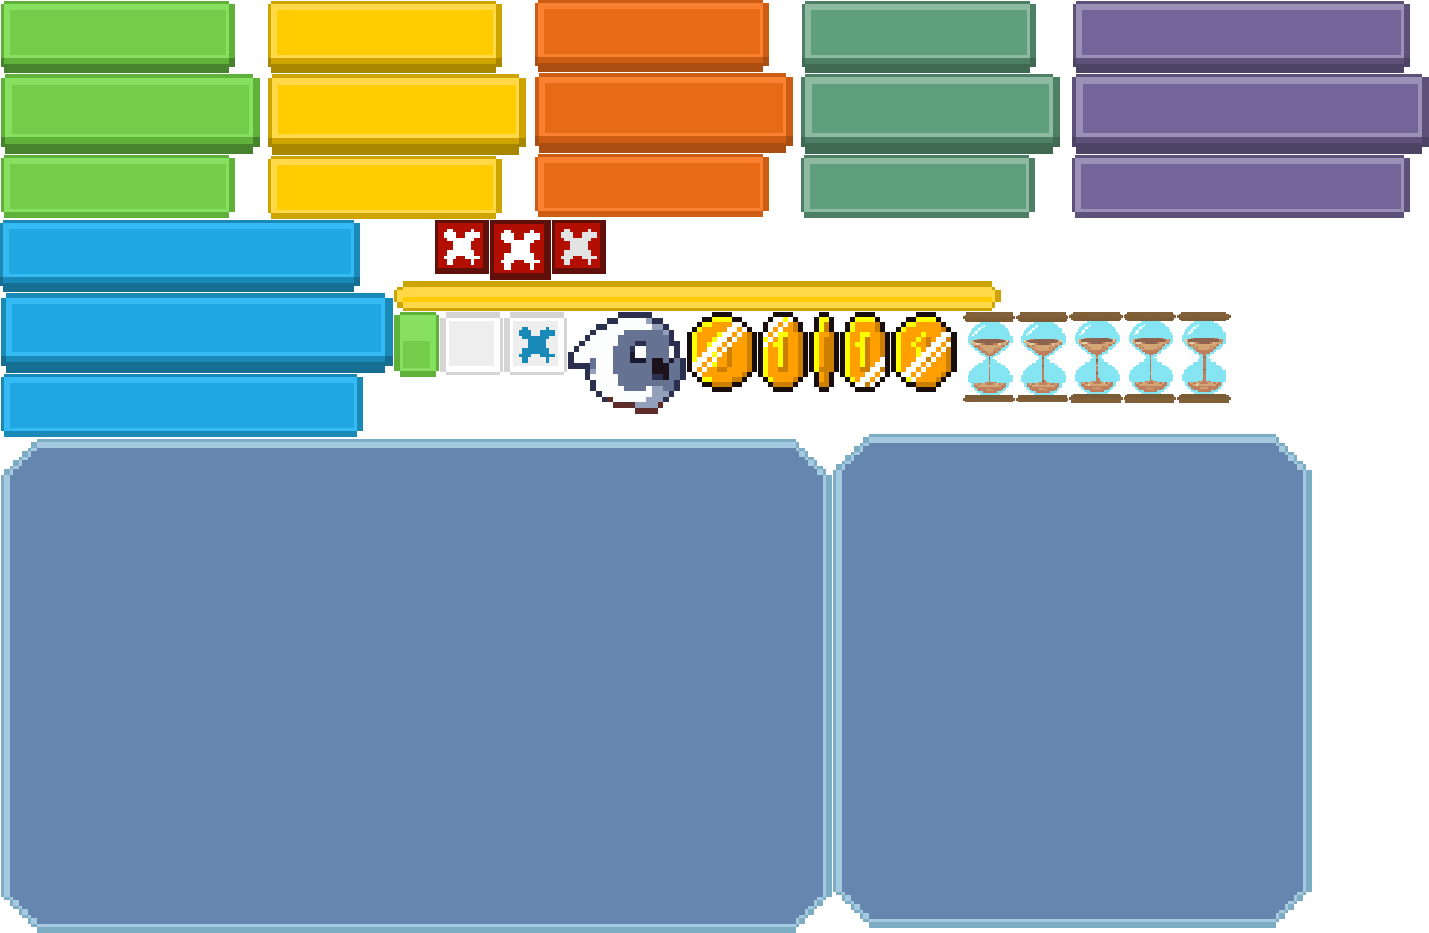
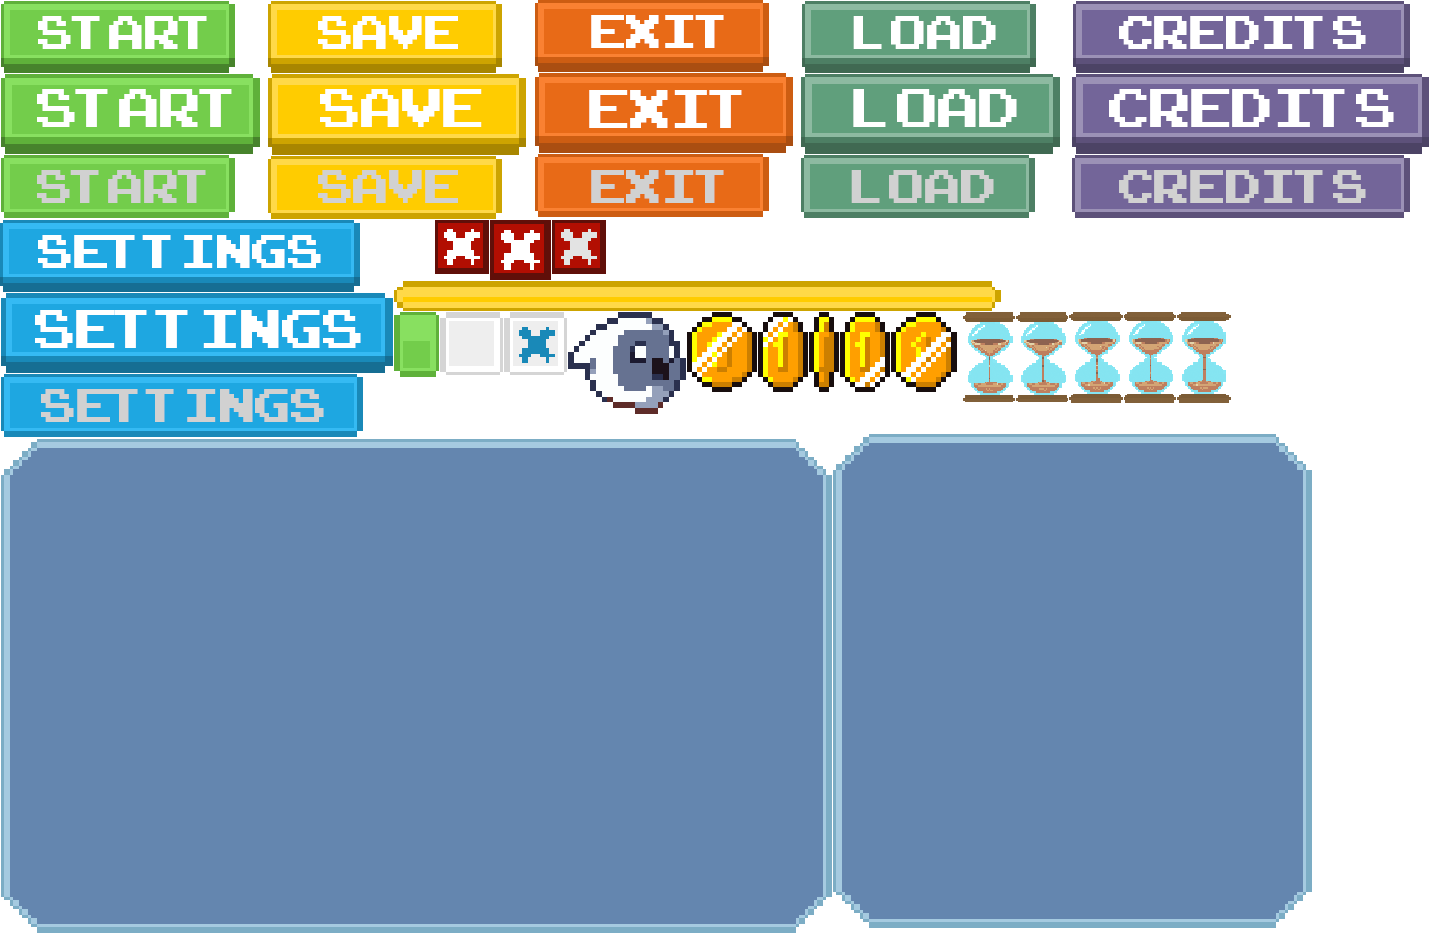
Implementing Scene Intro UI (all buttons finished)

diff --git a/Plataformer_2D/Motor2D/j1Scene_UI.cpp b/Plataformer_2D/Motor2D/j1Scene_UI.cpp
@@ -17,10 +17,13 @@
 #include "j1Colliders.h"
 #include "j1Map.h"
 #include "j1Scene.h"
+#include "j1Audio.h"
 
 j1SceneUI::j1SceneUI()
 {
 	name.create("sceneUI");
+
+	exit = false;
 }
 
 // Destructor
@@ -57,8 +60,16 @@ bool j1SceneUI::Addsceneintro_UI()
 	// Elements of this UI
 	background = App->gui->AddImage(App->gui->scene_intro, 0, 0, { 0,0,1056,792 });
 	title = App->gui->AddImage(App->gui->title_intro, 200, 100, { 0,0,683,98 });
-	play_button = App->gui->AddButton(200, 350, App->gui->GetAtlas(), {1,1,234,72}, {1,74,259,80}, {1,155,234,63}, this);
+	play_button = App->gui->AddButton(400, 250, App->gui->GetAtlas(), {1,1,234,72}, {1,74,259,80}, {1,155,234,63}, this);
 	play_button->element_action = START;
+	load_button = App->gui->AddButton(400, 350, App->gui->GetAtlas(), { 802,1,234,72 }, { 801,74,259,80 }, { 801,155,234,63 }, this);
+	load_button->element_action = LOAD;
+	credits_button = App->gui->AddButton(350, 550, App->gui->GetAtlas(), { 1073,1,337,72 }, { 1072,74,357,80 }, { 1072,155,338,63 }, this);
+	credits_button->element_action = CREDITS;
+	settings_button = App->gui->AddButton(350, 450, App->gui->GetAtlas(), { 0,220,360,72 }, { 1,293,392,80 }, { 1,374,362,63 }, this);
+	settings_button->element_action = SETTINGS;
+	exit_button = App->gui->AddButton(400, 650, App->gui->GetAtlas(), { 535,1,234,71 }, { 535,73,258,80 }, { 535,154,234,63 }, this);
+	exit_button->element_action = EXIT;
 
 	return true;
 }
@@ -68,6 +79,10 @@ bool j1SceneUI::Deletesceneintro_UI()
 	App->gui->DeleteGui(background);
 	App->gui->DeleteGui(title);
 	App->gui->DeleteGui(play_button);
+	App->gui->DeleteGui(load_button);
+	App->gui->DeleteGui(credits_button);
+	App->gui->DeleteGui(settings_button);
+	App->gui->DeleteGui(exit_button);
 
 	return true;
 }
@@ -129,6 +144,24 @@ bool j1SceneUI::OnUIEvent(UI_element* element, event_type event_type)
 			App->scene->currentMap = 0;
 			App->scene->LevelName(0);
 			Deletesceneintro_UI();
+		}
+		else if (element->element_action == LOAD)
+		{
+			App->scene->sceneintro = false;
+			App->want_load = true;
+			Deletesceneintro_UI();
+		}
+		else if (element->element_action == CREDITS)
+		{
+			
+		}
+		else if (element->element_action == SETTINGS)
+		{
+
+		}
+		else if (element->element_action == EXIT)
+		{
+			exit = true;
 		}
 	}
 	else if (event_type == MOUSE_RIGHT_CLICK)

diff --git a/Plataformer_2D/Motor2D/UI_button.cpp b/Plataformer_2D/Motor2D/UI_button.cpp
@@ -37,7 +37,7 @@ void UI_button::BlitElement()
 		App->render->Blit(texture, globalPos.x, globalPos.y, &section, false);
 		break;
 	case MOUSEOVER:
-		App->render->Blit(texture, globalPos.x - 5, globalPos.y - 5, &OnMouse, false);
+		App->render->Blit(texture, globalPos.x - 10, globalPos.y - 3, &OnMouse, false);
 		break;
 	case CLICKED:
 		App->render->Blit(texture, globalPos.x, globalPos.y, &OnClick, false);

diff --git a/Plataformer_2D/Motor2D/j1Scene_UI.h b/Plataformer_2D/Motor2D/j1Scene_UI.h
@@ -41,6 +41,12 @@ public:
 	UI_element* background;
 	UI_element* title;
 	UI_element* play_button;
+	UI_element* load_button;
+	UI_element* settings_button;
+	UI_element* credits_button;
+	UI_element* exit_button;
+	bool exit = false;
+	
 
 	// In game
 	UI_element* live1;

diff --git a/Plataformer_2D/Motor2D/UI_element.h b/Plataformer_2D/Motor2D/UI_element.h
@@ -25,7 +25,11 @@ enum UI_element_state
 
 enum UI_element_action
 {
-	START
+	START,
+	LOAD,
+	SETTINGS,
+	CREDITS,
+	EXIT
 };
 
 class UI_element :public j1Module
